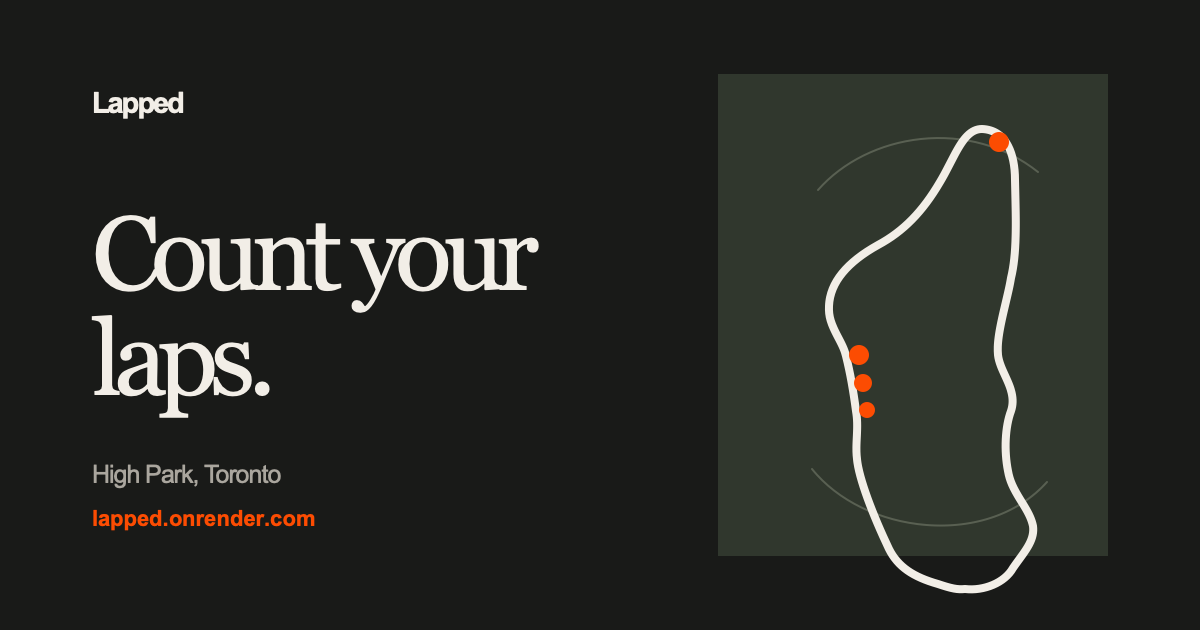
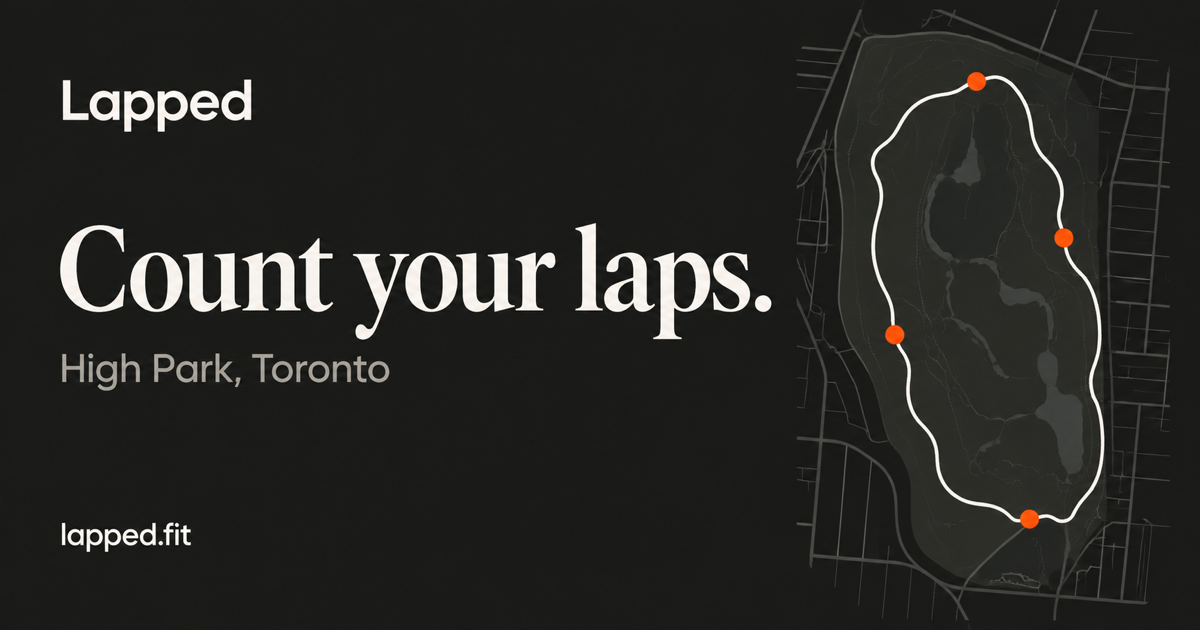
Add dedicated social share previews

diff --git a/server.js b/server.js
@@ -408,7 +408,7 @@ function leaderboardPanel(board, tokens) {
 }
 
 function publicLeaderboardPage(board, tokens, rankings) {
-  return `<!doctype html><html lang="en" data-theme="light"><head><meta charset="UTF-8"><meta name="viewport" content="width=device-width,initial-scale=1"><title>Lapped — Leaderboard</title><meta name="description" content="High Park laps on Lapped."><style>:root{color-scheme:dark;--paper:#191a18;--ink:#f2eee7;--muted:#aaa69e;--line:#3c3c38;--accent:#fc4c02}html[data-theme="light"]{color-scheme:light;--paper:#f3f0ea;--ink:#20201e;--muted:#6f6b65;--line:#cbc7bf;--accent:#fc4c02}*{box-sizing:border-box}body{margin:0;background:var(--paper);color:var(--ink);font:16px Arial,Helvetica,sans-serif;padding:32px 24px 72px;transition:background .25s,color .25s}.wrap{max-width:860px;margin:0 auto}.top{display:flex;align-items:center;justify-content:space-between}.brand,.back{color:var(--ink);text-decoration:none}.brand{font-weight:700;font-size:22px;letter-spacing:-.07em}.right{display:flex;align-items:center;gap:12px}.back,.theme-label{color:var(--muted);font-size:12px;text-decoration:underline;text-underline-offset:3px}.theme-label{text-decoration:none}.toggle{display:block;width:30px;height:18px;cursor:pointer}.toggle input{position:absolute;opacity:0;pointer-events:none}.track{display:block;position:relative;width:30px;height:18px;border:1px solid var(--muted);border-radius:99px}.track i{position:absolute;top:3px;left:3px;width:10px;height:10px;border-radius:50%;background:var(--ink);transition:transform .2s}.toggle input:checked+.track i{transform:translateX(12px)}.heading{margin:94px 0 54px;border-bottom:1px solid var(--ink);padding-bottom:22px}.heading h1{margin:0;font:400 clamp(56px,11vw,108px)/.85 Georgia,"Times New Roman",serif;letter-spacing:-.075em}.leaderboard,.rankings{border-top:1px solid var(--ink);padding-top:18px;margin-top:64px}.leaderboard h2,.rankings h2{font-size:15px;margin:0 0 6px;font-weight:500}.leaderboard p,.rankings p{color:var(--muted);font-size:13px;margin:0 0 18px}.leaderboard-grid,.ranking-grids{display:grid;grid-template-columns:1fr 1fr;gap:36px}table{width:100%;border-collapse:collapse;font-size:15px}th,td{text-align:left;padding:15px 0;border-top:1px solid var(--line)}th{color:var(--muted);font-size:12px;font-weight:400}td:first-child{color:var(--muted);width:30px}td:last-child{text-align:right;color:var(--ink)}footer{margin-top:72px;color:var(--muted);font-size:12px}@media(max-width:600px){body{padding:20px 20px 52px}.heading{margin:68px 0 42px}.leaderboard-grid,.ranking-grids{grid-template-columns:1fr;gap:32px}.right .back{display:none}table{font-size:14px}.heading h1{font-size:68px}}</style></head><body><main class="wrap"><nav class="top"><a class="brand" href="/">Lapped</a><div class="right"><a class="back" href="/">back to Lapped</a><span class="theme-label" id="theme-label">light mode</span><label class="toggle"><input id="theme-toggle" type="checkbox" aria-label="Use light mode"><span class="track"><i></i></span></label></div></nav><header class="heading"><h1>Leaderboard</h1></header>${leaderboardPanel(board, tokens)}${rankingPanel(rankings)}<footer>Lapped 2026</footer></main><script>const toggle=document.querySelector('#theme-toggle'),label=document.querySelector('#theme-label'),root=document.documentElement;function setTheme(theme){root.dataset.theme=theme;toggle.checked=theme==='light';label.textContent=theme+' mode'}setTheme(localStorage.getItem('lapped-theme')==='dark'?'dark':'light');toggle.onchange=()=>{const theme=toggle.checked?'light':'dark';setTheme(theme);localStorage.setItem('lapped-theme',theme)}</script></body></html>`;
+  return `<!doctype html><html lang="en" data-theme="light"><head><meta charset="UTF-8"><meta name="viewport" content="width=device-width,initial-scale=1"><title>Lapped — Leaderboard</title><meta name="description" content="High Park’s Lapped leaderboard: all-time, yearly, and fastest laps."><link rel="canonical" href="https://lapped.fit/leaderboard"><meta property="og:type" content="website"><meta property="og:title" content="Lapped — Leaderboard"><meta property="og:description" content="High Park’s Lapped leaderboard: all-time, yearly, and fastest laps."><meta property="og:url" content="https://lapped.fit/leaderboard"><meta property="og:image" content="https://lapped.fit/leaderboard-og.png"><meta property="og:image:width" content="1200"><meta property="og:image:height" content="630"><meta property="og:image:alt" content="Lapped Leaderboard — High Park laps."><meta name="twitter:card" content="summary_large_image"><meta name="twitter:title" content="Lapped — Leaderboard"><meta name="twitter:description" content="High Park’s Lapped leaderboard: all-time, yearly, and fastest laps."><meta name="twitter:image" content="https://lapped.fit/leaderboard-og.png"><meta name="twitter:image:alt" content="Lapped Leaderboard — High Park laps."><style>:root{color-scheme:dark;--paper:#191a18;--ink:#f2eee7;--muted:#aaa69e;--line:#3c3c38;--accent:#fc4c02}html[data-theme="light"]{color-scheme:light;--paper:#f3f0ea;--ink:#20201e;--muted:#6f6b65;--line:#cbc7bf;--accent:#fc4c02}*{box-sizing:border-box}body{margin:0;background:var(--paper);color:var(--ink);font:16px Arial,Helvetica,sans-serif;padding:32px 24px 72px;transition:background .25s,color .25s}.wrap{max-width:860px;margin:0 auto}.top{display:flex;align-items:center;justify-content:space-between}.brand,.back{color:var(--ink);text-decoration:none}.brand{font-weight:700;font-size:22px;letter-spacing:-.07em}.right{display:flex;align-items:center;gap:12px}.back,.theme-label{color:var(--muted);font-size:12px;text-decoration:underline;text-underline-offset:3px}.theme-label{text-decoration:none}.toggle{display:block;width:30px;height:18px;cursor:pointer}.toggle input{position:absolute;opacity:0;pointer-events:none}.track{display:block;position:relative;width:30px;height:18px;border:1px solid var(--muted);border-radius:99px}.track i{position:absolute;top:3px;left:3px;width:10px;height:10px;border-radius:50%;background:var(--ink);transition:transform .2s}.toggle input:checked+.track i{transform:translateX(12px)}.heading{margin:94px 0 54px;border-bottom:1px solid var(--ink);padding-bottom:22px}.heading h1{margin:0;font:400 clamp(56px,11vw,108px)/.85 Georgia,"Times New Roman",serif;letter-spacing:-.075em}.leaderboard,.rankings{border-top:1px solid var(--ink);padding-top:18px;margin-top:64px}.leaderboard h2,.rankings h2{font-size:15px;margin:0 0 6px;font-weight:500}.leaderboard p,.rankings p{color:var(--muted);font-size:13px;margin:0 0 18px}.leaderboard-grid,.ranking-grids{display:grid;grid-template-columns:1fr 1fr;gap:36px}table{width:100%;border-collapse:collapse;font-size:15px}th,td{text-align:left;padding:15px 0;border-top:1px solid var(--line)}th{color:var(--muted);font-size:12px;font-weight:400}td:first-child{color:var(--muted);width:30px}td:last-child{text-align:right;color:var(--ink)}footer{margin-top:72px;color:var(--muted);font-size:12px}@media(max-width:600px){body{padding:20px 20px 52px}.heading{margin:68px 0 42px}.leaderboard-grid,.ranking-grids{grid-template-columns:1fr;gap:32px}.right .back{display:none}table{font-size:14px}.heading h1{font-size:68px}}</style></head><body><main class="wrap"><nav class="top"><a class="brand" href="/">Lapped</a><div class="right"><a class="back" href="/">back to Lapped</a><span class="theme-label" id="theme-label">light mode</span><label class="toggle"><input id="theme-toggle" type="checkbox" aria-label="Use light mode"><span class="track"><i></i></span></label></div></nav><header class="heading"><h1>Leaderboard</h1></header>${leaderboardPanel(board, tokens)}${rankingPanel(rankings)}<footer>Lapped 2026</footer></main><script>const toggle=document.querySelector('#theme-toggle'),label=document.querySelector('#theme-label'),root=document.documentElement;function setTheme(theme){root.dataset.theme=theme;toggle.checked=theme==='light';label.textContent=theme+' mode'}setTheme(localStorage.getItem('lapped-theme')==='dark'?'dark':'light');toggle.onchange=()=>{const theme=toggle.checked?'light':'dark';setTheme(theme);localStorage.setItem('lapped-theme',theme)}</script></body></html>`;
 }
 
 function adminPage(tokens, analytics, { page, query }) {

diff --git a/public/index.html b/public/index.html
@@ -8,14 +8,17 @@
   <meta property="og:type" content="website" />
   <meta property="og:title" content="Lapped — Count your laps." />
   <meta property="og:description" content="Count your High Park laps. That’s it." />
-  <meta property="og:url" content="https://lapped.fit" />
+  <meta property="og:url" content="https://lapped.fit/" />
   <meta property="og:image" content="https://lapped.fit/og-image.png" />
   <meta property="og:image:width" content="1200" />
   <meta property="og:image:height" content="630" />
+  <meta property="og:image:alt" content="Lapped — Count your High Park laps." />
   <meta name="twitter:card" content="summary_large_image" />
   <meta name="twitter:title" content="Lapped — Count your laps." />
   <meta name="twitter:description" content="Count your High Park laps. That’s it." />
   <meta name="twitter:image" content="https://lapped.fit/og-image.png" />
+  <meta name="twitter:image:alt" content="Lapped — Count your High Park laps." />
+  <link rel="canonical" href="https://lapped.fit/" />
   <link rel="stylesheet" href="/styles.css" />
   <link rel="stylesheet" href="/refinements.css" />
 </head>
